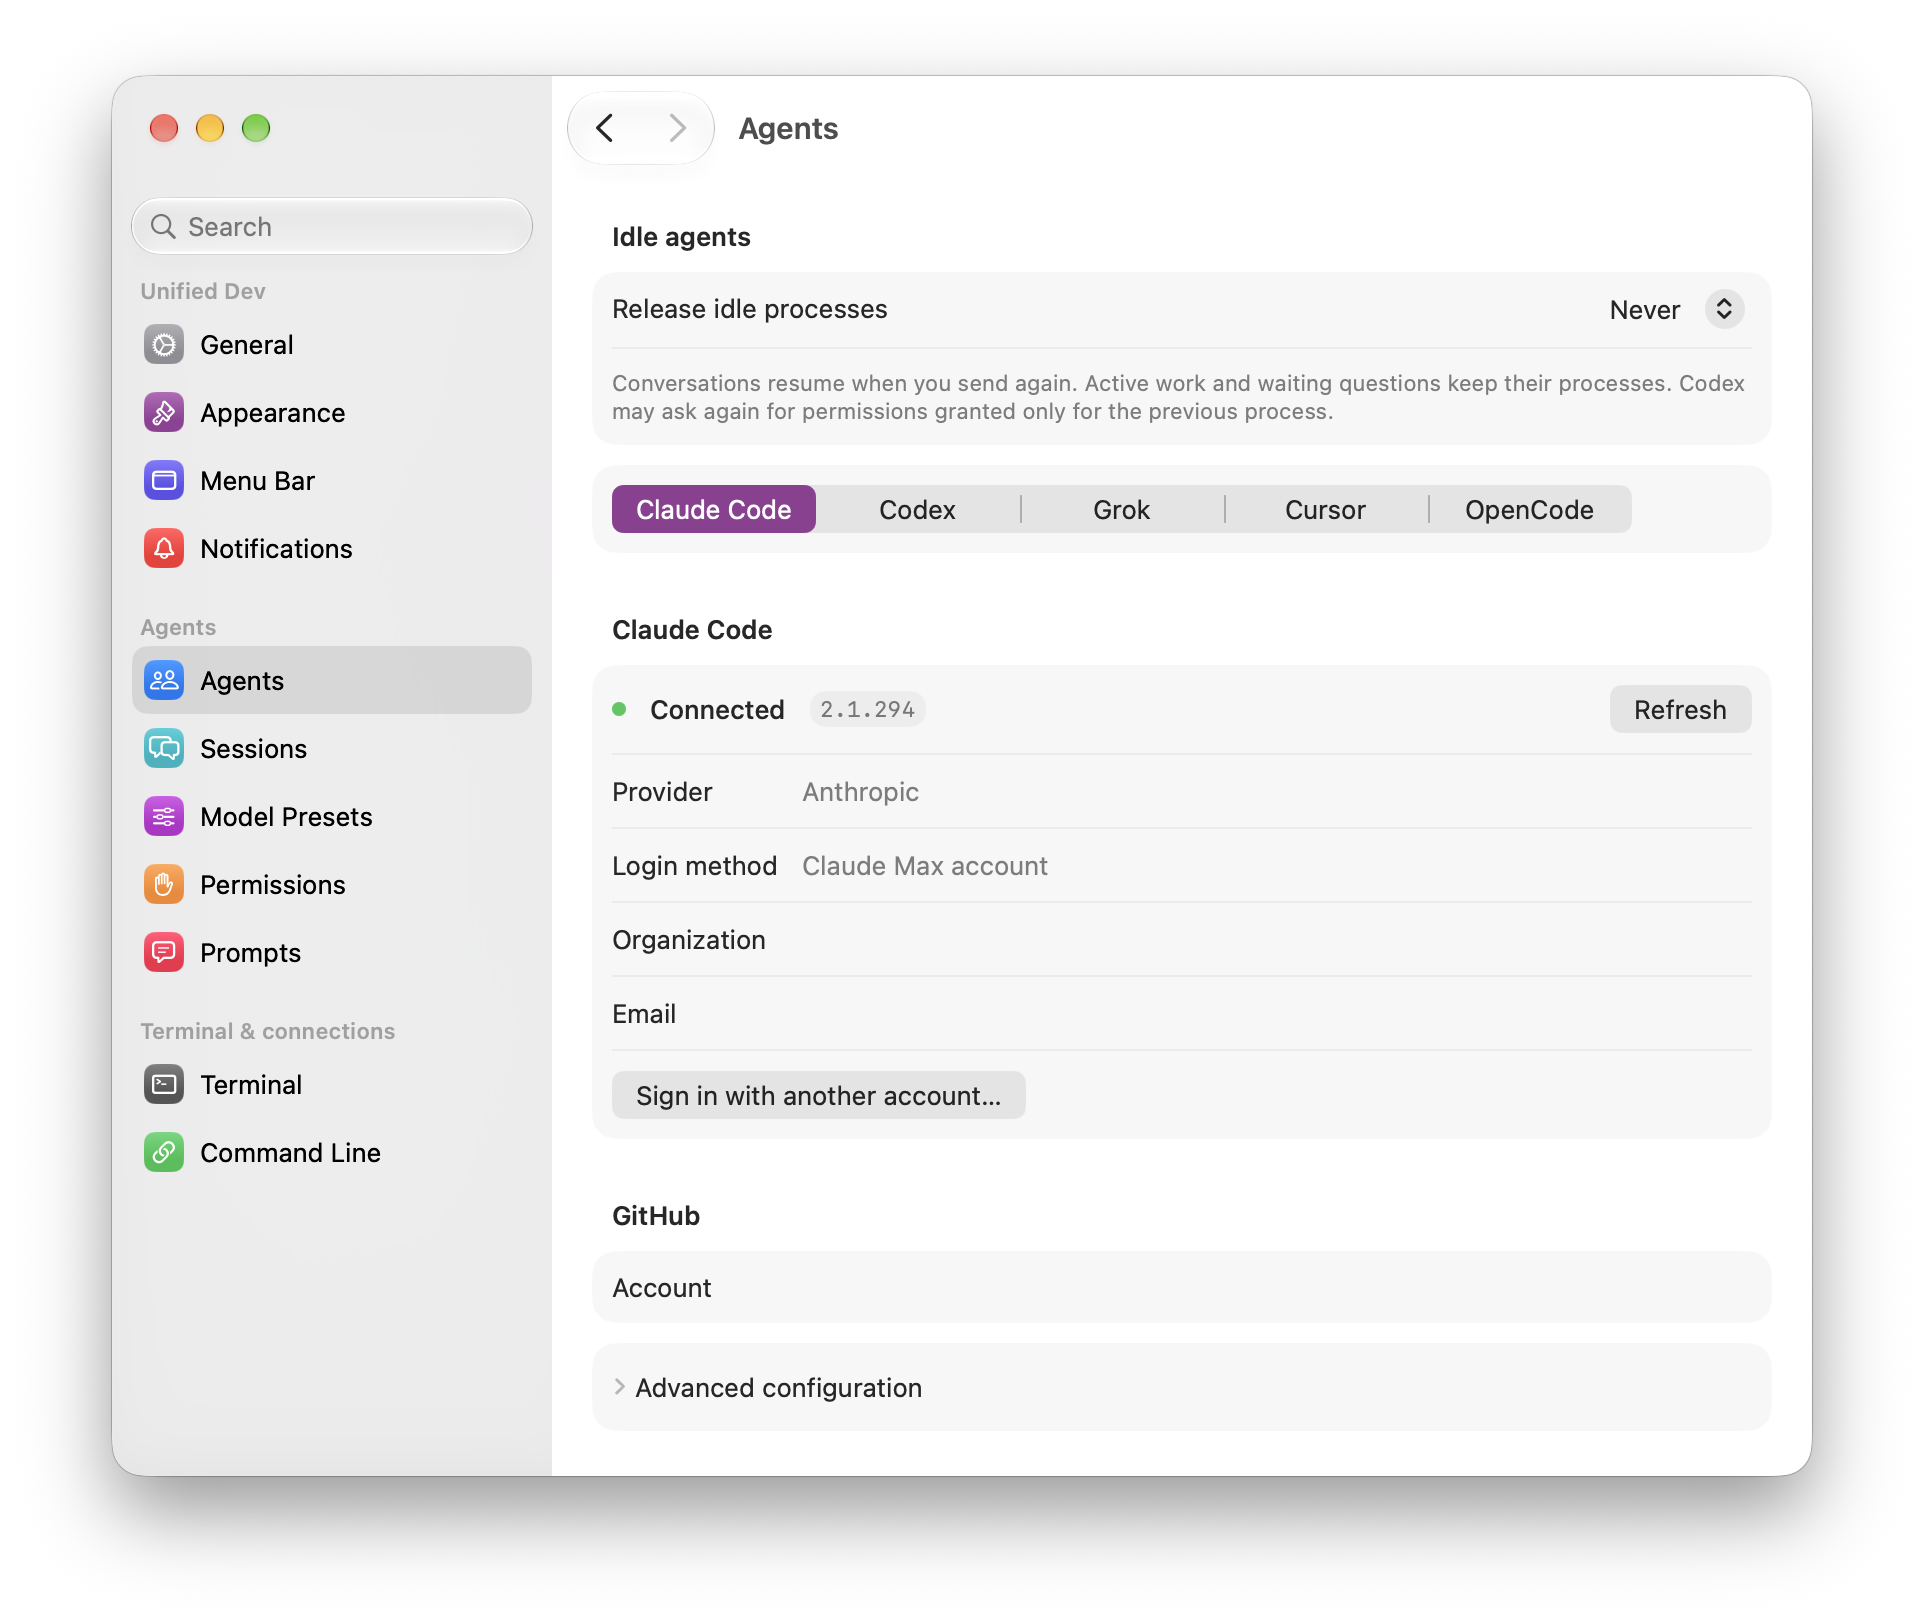
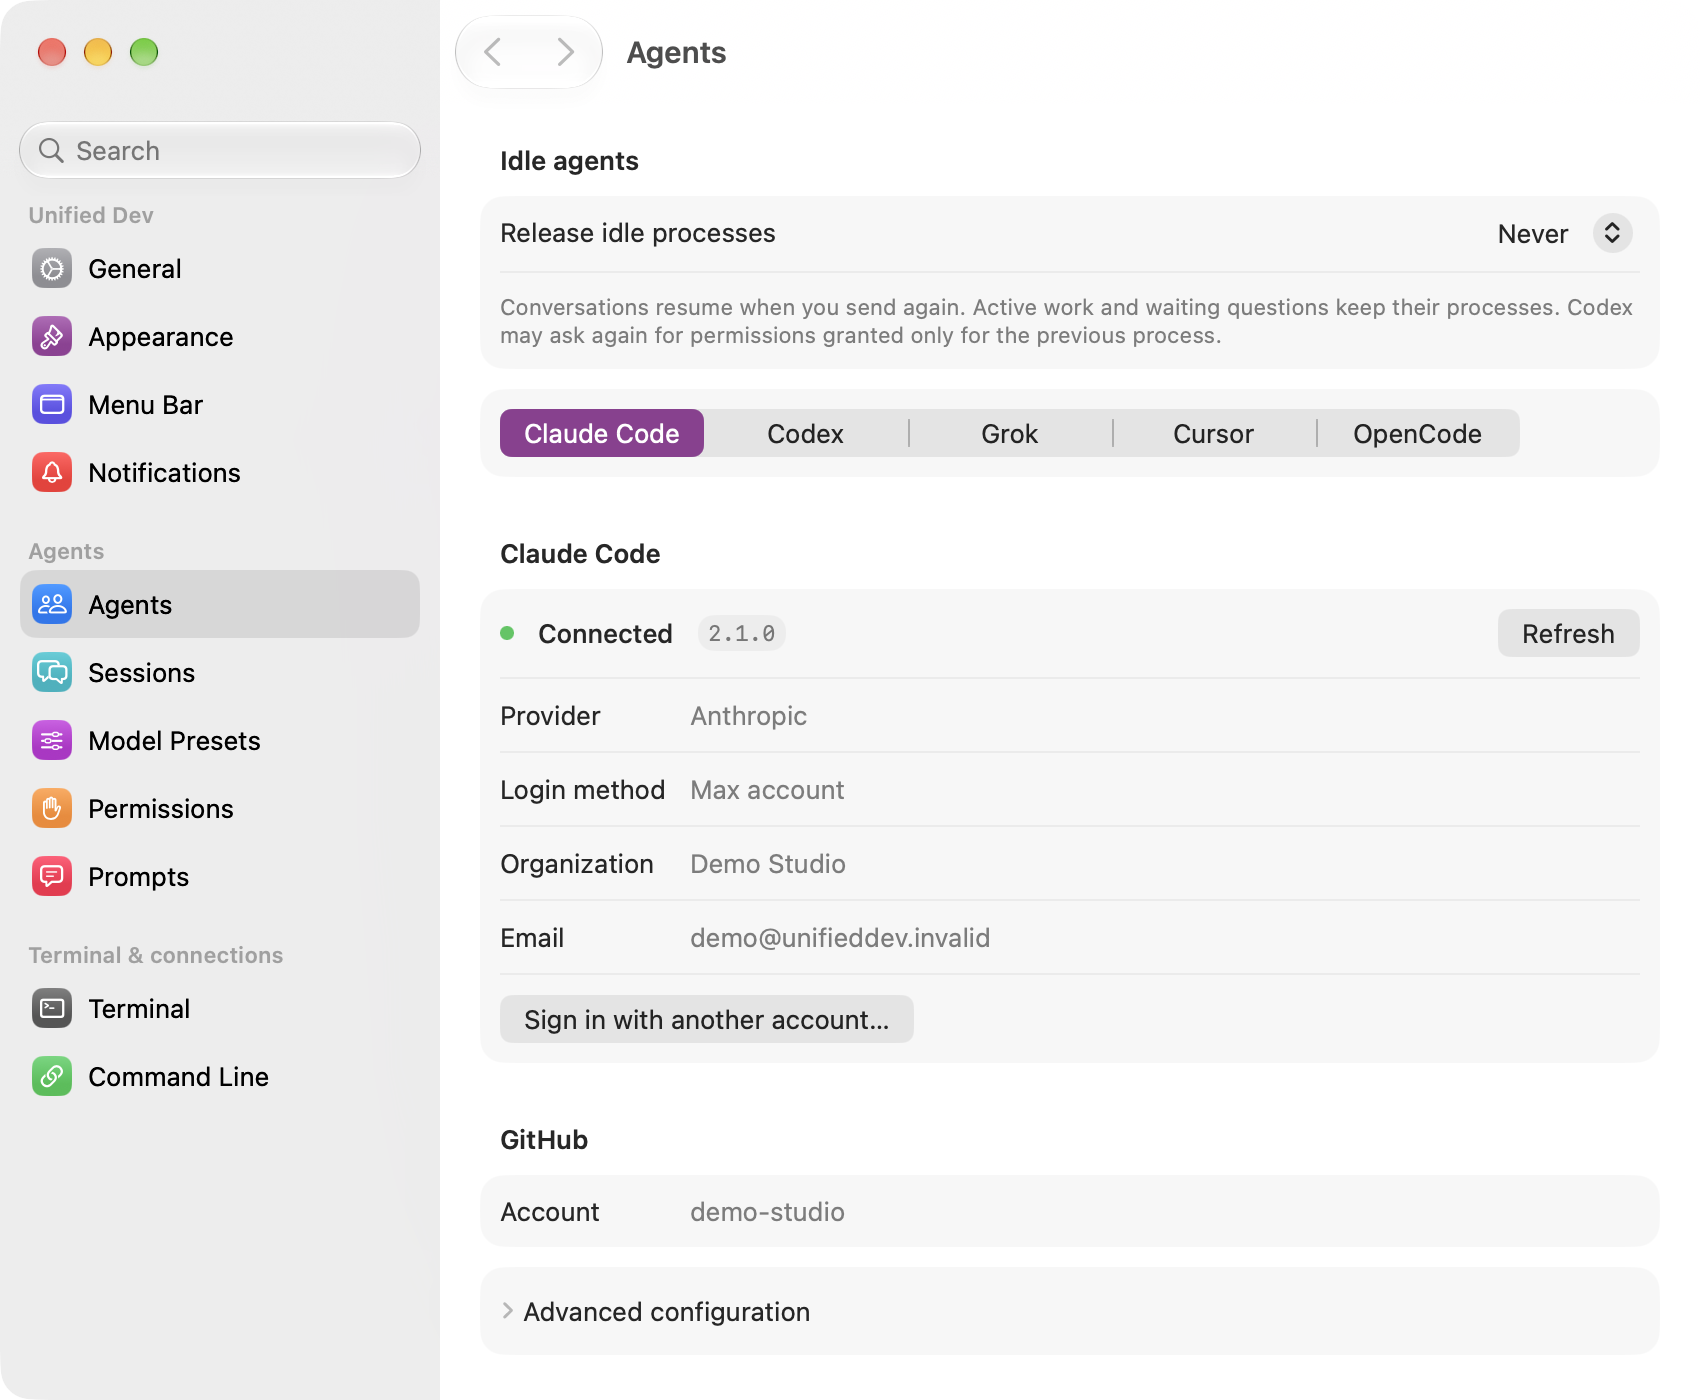
feat(unified-dev): retake the settings screenshot with demo accounts

diff --git a/unified-dev/SHOTLIST.md b/unified-dev/SHOTLIST.md
@@ -7,7 +7,7 @@ Screens to capture and their status. Where a shot is used lives in `posts/<post>
 - [x] `agent/01-turn-running.png`: an agent mid-turn, with the Stop button visible.
 - [x] `workspaces/01-parallel-agents.png`: 3 or 4 workspaces visibly running agents at the same time, with the sidebar as the focus.
 - [x] `archive/01-safety-report.png`: the Archive confirmation listing what would be lost.
-- [ ] `settings/01-agents.png`: NEEDED BY Tue 03/11 20:00. RETAKE with the preview's seeded demo accounts (no painting): the Agents settings screen with the detected CLIs and the account each one is signed in to.
+- [x] `settings/01-agents.png`: the Agents settings screen with the detected CLIs and the account each one is signed in to.
 - [x] `workspaces/02-create-sheet.png`: the sheet for creating a new workspace, with the source picker.
 - [ ] `agent/02-subagents.png`: RETAKE: a subagent summary line was painted over in the image. Needs a transcript where the agent spawned subagents and every line, subagent output included, is in English.
 - [x] `archive/02-archived-list.png`: Home, Archived tab, with an archived workspace and its branch.

diff --git a/unified-dev/settings/post.md b/unified-dev/settings/post.md
@@ -9,3 +9,7 @@ Lesson from Unified Dev: to know which account an agent CLI is signed in to, I s
 Lesson from Unified Dev: to know which account an agent CLI is signed in to, I stopped asking the CLI. In my tests, claude auth status preferred the environment over the config directory, and said loggedIn for a forged token. Now the app reads the account's own directory.
 
 #Swift #macOS
+
+## Screenshots
+
+- `01-agents.png`: the Agents settings screen, Claude Code connected to the demo account, with the GitHub account below.
